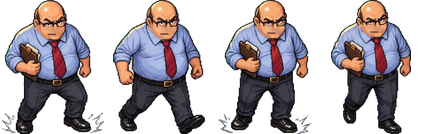
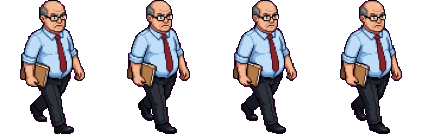
feat: Д.Н. перерисован, клавиши только латиницей в онбординге, укрытия ограничены по времени, шутки про Турло Тимурова (0.20.1)

diff --git a/js/lines.js b/js/lines.js
@@ -5,6 +5,7 @@
   const boss = {
     // Обычный обход — бурчит себе под нос
     patrol: [
+      "Кто сказал «агент ФСБ»?! У нас все агенты — кредитные!", "Hindenburg не пройдёт! И вы в серверную тоже не пройдёте.", 
       "Так, кто трогал ключ от моего туалета? Он у меня на шее. Проверяю.", "Турло Тимуров опять в Threads написал «работаем 24/7». Я тоже читаю в 3 ночи.", "Если Турло Тимуров купит ещё одну компанию, мы начнём выдавать арбузы в кредит.", "У меня отдельный туалет. Это не привилегия, это KPI.", "Кто работал, пока я был в своём туалете? Никто. Я слышал.", 
       'Либо работайте, коллеги, либо... молодцы, ребята!',
       'NPL сам себя не посчитает!',
@@ -209,13 +210,14 @@
   const coworkerIdle = {
     aimashyn: ['*печатает*',"Выкатили релиз. Откатили релиз. Agile.", "Турло Тимуров ответил мне в Threads! Правда, лайком от бота.",  'Кто пушнул в прод в пятницу? Я знаю, что ты читаешь это, Быкентий.', 'Code review: «LGTM». Код не смотрел.', 'Опять Excel завис...', 'Кто взял мою ручку?', 'Скорей бы пятница и «Мюнхен».'],
     hlad: ['♪ ♫ ♪',"Скор-модель предсказала мне отпуск. Ложноположительно.", "Чем больше слоёв в модели, тем меньше смысла. Как в «Наполеоне».",  'Модель переобучена. Я тоже.', '*делает музыку громче каждый раз, когда говорит Д.Н.*', '*качает головой в такт*', 'Опять переобучать...'],
-    shurik: ['Хм, тут ошибка.',"Заёмщик — владелец трёх Камри и одного велосипеда. Одобряем велосипед.", "Верифицировал Турло Тимурова. Доход — «достаточный».",  'Клиент указал доход «много». Верифицировано.', 'Паспорт выдан в 1880 году. Вопросов нет.', '*перепроверяет*', 'Сходится. Странно.'],
-    bleb: ['*обучает модель*',"Нейросеть говорит, что Д.Н. в своём туалете. Точность 97%.", "Промпт: «сделай мне премию». Ответ: «как языковая модель, я не могу».",  'ROC-AUC 0.51. Почти монетка.', 'Опять пропуски в данных Маджикистана.'],
+    shurik: ['Хм, тут ошибка.',"Верифицировал клиента из Белиза. Адрес — пальма.", "Заёмщик — владелец трёх Камри и одного велосипеда. Одобряем велосипед.", "Верифицировал Турло Тимурова. Доход — «достаточный».",  'Клиент указал доход «много». Верифицировано.', 'Паспорт выдан в 1880 году. Вопросов нет.', '*перепроверяет*', 'Сходится. Странно.'],
+    bleb: ['*обучает модель*',"Нейросеть уверена, что Турло Тимуров — рептилоид. Я уверен, что она переобучилась.", "Нейросеть говорит, что Д.Н. в своём туалете. Точность 97%.", "Промпт: «сделай мне премию». Ответ: «как языковая модель, я не могу».",  'ROC-AUC 0.51. Почти монетка.', 'Опять пропуски в данных Маджикистана.'],
     sirgey: ['*кивает в пустоту*',"Автошка упала, я лёг следом — командная работа.", "Я не опоздал, я асинхронный.",  'Коллеги, у меня видео не работает. И я тоже.', 'Автошка упала. Я тоже скоро лягу.', 'Да-да, согласен. А что?', 'Меня слышно?.. Нет? Ну и ладно.'],
-    asel: ['Как же всё надоело...',"Сторис «мой рабочий день»: кофе, кофе, Excel, кофе.", "Турло Тимуров выложил в Threads фото с шахматной доской. Лайкнула для комплаенса.",  'Кто опять поставил кондей на 16?!', 'Комплаенс не спит. Он просто закрыл глаза.', 'Всё по регламенту. Регламент — по настроению.', 'Опять подписали без визы…', 'Мне бы в отпуск. На Капчагай.'],
-    tigran: ['Р-р-р… джан.',"Ключ от туалета Д.Н.? Тигры ходят в лес, джан.", "Турло Тимуров купил бы Байконур. А я бы запустил.",  'Ключ на старт…', 'Гагарин тоже с чего-то начинал.', '*поправляет флажки на столе*', 'На Байконуре уже бы запустили.'],
+    asel: ['Как же всё надоело...',"Комплаенс проверил слух про ФСБ. Вывод: слух не резидент.", "Сторис «мой рабочий день»: кофе, кофе, Excel, кофе.", "Турло Тимуров выложил в Threads фото с шахматной доской. Лайкнула для комплаенса.",  'Кто опять поставил кондей на 16?!', 'Комплаенс не спит. Он просто закрыл глаза.', 'Всё по регламенту. Регламент — по настроению.', 'Опять подписали без визы…', 'Мне бы в отпуск. На Капчагай.'],
+    tigran: ['Р-р-р… джан.',"Hindenburg — это дирижабль. Он тоже красиво взлетел, джан.", "Ключ от туалета Д.Н.? Тигры ходят в лес, джан.", "Турло Тимуров купил бы Байконур. А я бы запустил.",  'Ключ на старт…', 'Гагарин тоже с чего-то начинал.', '*поправляет флажки на столе*', 'На Байконуре уже бы запустили.'],
     stazy: ['В «Пещере"Свет в «Пещере» дали! Узнал из Threads. Шутка, не дали.",  на Абая» опять вырубили свет. Третий день живу при свечах.', 'Ordnung muss sein. Но не в нашем ЖК.', 'Дома свет по графику. График — по настроению КСК.', 'Я на работу хожу погреться и зарядить телефон.', 'Соседи уже в чате ЖК пишут при свечке.', 'Лифт опять стоит. Девятый этаж — моя кардиотренировка.', 'Зато у нас в «Пещере» звёзды видно. Прямо из подъезда.', 'Бабушка из Караганды говорит: при Союзе свет был. Я не проверял.'],
     aljazira: [
+      "Hindenburg нас шортит, SEC пишет письма, а вы YouTube смотрите?!", 
       "Опять Д.Н. закрылся в своём туалете на ключ! Мне что, в синюю кабинку с отчётом идти?!", "Турло Тимуров пишет в Threads «мы открыты к критике». Пусть придёт в Маджикистан, покритикуем.", "Я одна тут работаю. Все остальные — эмбеддинги.", 
       'Маджикистан опять нае**улся... Сука, кто этим обезьянам доступ дал?!',
       'Быкентий, б**ть! Если через час шлюз не поднимется — я тебя лично в Капчагае утоплю!',
@@ -236,6 +238,7 @@
     aljazira: { phone: ['*орёт матом в трубку на подрядчиков*', '*яростно строчит капсом «БЫКЕНТИЙ ТЫ ТРУП»*'], sleep: ['*уронила голову на папки: «Как вы все меня зае**ли...»*'] },
   };
   const whine = [
+      "Говорят, Турло Тимуров — агент ФСБ. А по-моему, он просто в Threads сидит в 3 ночи.", "Hindenburg опять шорт открыл? Я тоже: шорты под столом, жара же.", "Турло Тимурову пришло «письмо Уэллса». Мне пришло только письмо от КСК.", "Офшор в Белизе у Турло Тимурова, а у меня — депозит в «Мюнхене» на обед.", 
       "Говорят, у Д.Н. в туалете подогрев сиденья. Тоже KPI?", "Турло Тимуров опять что-то купил. Надеюсь, кондиционер.", "Банк на Nasdaq, туалет — пластиковый.", "Ключ от туалета Д.Н. — главный актив отдела.", 
     'Жарко, как в сауне...', 'Когда ремонт уже?', 'Опять сверлят...', 'Зарплату когда поднимут?',
     'У меня от кондея шея не поворачивается.', 'Интернет опять как в 2007-м.', 'Опять сбор денег? Я же скидывался!',
@@ -289,6 +292,8 @@
     fail: ['Всё. Это был дефолт. Полный и безоговорочный.', 'Ну вот. Ликвидность вышла из-под контроля.', 'Эх… Джинсы — в залог, кеды — в просрочку.'],
     relief: ['Как заново родился. Как после релиза, который не упал.', 'Вот она — настоящая стабильность.', 'Это лучше, чем премия. Которой всё равно нет.'],
   };
+  // Слишком долго в укрытии
+  const hideOut = ['Хвостик торчит из фикуса… Кажется, меня видно.', 'Ноги затекли. Кусты — не офисное кресло.', 'Фикус устал меня прятать.'];
   const bday = ['Скидываемся на ДР! Кидайте на Kaspi по 5000 ₸!', 'Опять сбор. Кто-то вообще отмечает, что мы скидываемся?'];
 
   const coworkerWarn = [
@@ -408,6 +413,10 @@
   const excuses = ["Я в туалете Д.Н. был! А, у меня нет ключа… Значит, в синем!", "Готовил отчёт для Турло Тимурова! Для Threads!", 'Я в биотуалете был! Там очередь!', 'Я на созвоне по Маджикистану был!', 'Ходил за распечаткой, ксерокс опять жевал!', 'Я тут! Просто низко сидел!'];
   // Соседи перекидываются фразами между собой: [кто, реплика, кто отвечает, ответ]
   const banter = [
+    ["sirgey", "Говорят, Турло Тимуров — агент ФСБ.", "shurik", "Верифицировал. Агент — только кредитный."],
+    ["hlad", "Hindenburg опять отчёт выпустил.", "bleb", "Наша модель предсказала. ROC-AUC 0.51."],
+    ["asel", "SEC прислала Турло Тимурову письмо.", "aimashyn", "Надеюсь, не в наш общий чат."],
+    ["stazy", "Если у нас офшор в Белизе, почему свет в «Пещере» отключают?", "aljazira", "Потому что свет — это не актив, Штази!"],
     ["hlad", "Шурик, а правда у Д.Н. туалет с ключом?", "shurik", "Правда. Ключ верифицирован, сам туалет — нет."],
     ["bleb", "Турло Тимуров в Threads ответил на коммент в 3 ночи.", "aimashyn", "Он вообще спит? Или это тоже нейросеть?"],
     ["asel", "Кто стучит в туалет Д.Н.?", "aljazira", "Я! Он там с моим отчётом по Маджикистану заперся!"],
@@ -487,5 +496,5 @@
   // Д.Н. проходит мимо стола Тиграна — духа он не видит, только чувствует
   const tigranDraft = ['Бр-р… Откуда сквозняк у пустого стола?', 'Кто тут рычит?.. Показалось.', 'Почему тут пахнет космосом?'];
 
-  window.NP_LINES = { banter, tigranDraft, boss, chat, perks, coworkerIdle, coworkerWarn, thoughts, todoPool, dayTasks, excuses, majik, sb, nudge, arrfr, slack, whine, complaints, lunch, munich, toilet, pee, bday, aljazira, adhoc, excelTasks, coffeeQueue };
+  window.NP_LINES = { banter, tigranDraft, boss, chat, perks, coworkerIdle, coworkerWarn, thoughts, todoPool, dayTasks, excuses, majik, sb, nudge, arrfr, slack, whine, complaints, lunch, munich, toilet, pee, hideOut, bday, aljazira, adhoc, excelTasks, coffeeQueue };
 })();

diff --git a/index.html b/index.html
@@ -4,7 +4,7 @@
     <meta charset="UTF-8" />
     <meta name="viewport" content="width=device-width, initial-scale=1.0, maximum-scale=1.0, user-scalable=no, viewport-fit=cover" />
     <title>Не пались — банковский офисный симулятор</title>
-    <link rel="stylesheet" href="style.css?v=0.20.0" />
+    <link rel="stylesheet" href="style.css?v=0.20.1" />
   </head>
   <body>
     <main class="cabinet">
@@ -42,7 +42,7 @@
               <p class="pitch">Ты — айтишник в отделе банка.<br />Твоя задача — дожить до 19:30: пей кофе, кури с видом на горы, болтай с коллегами и заглядывай на кухню.<br />Но когда начальник смотрит в твою сторону — ты в Excel. Всегда.</p>
               <ul class="how">
                 <li><b>Цель</b> — сделать план, накайфоваться и не получить 3 выговора до 19:30.</li>
-                <li><b>Конус обзора</b> Д.Н.: бездельничаешь в нём — растёт «?». На 100% — выговор.</li>
+                <li><b>Конус обзора</b> начальника — Директора Начальниковича (Д.Н.): бездельничаешь в нём — растёт «?». На 100% — выговор.</li>
                 <li><b>Проверки стола</b>: не застал на месте слишком часто — выговор. Excel на глазах у Д.Н. — план вдвое быстрее.</li>
                 <li><b>Неделя</b> учит постепенно: коллеги, обед, второй ряд и Маджикистан, пятничное пиво.</li>
               </ul>
@@ -59,7 +59,7 @@
               </div>
               <div class="audio-row"><button class="audio-btn music-toggle">🎵 Музыка: вкл (N)</button><button class="audio-btn sound-toggle">🔊 Звуки: вкл (M)</button><button class="audio-btn text-toggle" title="Крупнее текст в меню и в игре">🔠 Текст: обычный</button></div>
               <label class="speed-row">⏱ Скорость времени <input class="speed-range" type="range" min="0.5" max="3" step="0.25" value="1" /> <b class="speed-val">×1</b></label>
-              <div class="controls-mini">WASD / ЦФЫВ / стрелки — ходить · E / У / Пробел — действие · H / Р — спрятаться · Tab / Q / Й — телефон · P / З / Esc — пауза · B / И — альт-таб · 1/2/3 — ответ на летучке · U / Г — апгрейды · N / Т — музыка · I / Ш — как играть</div>
+              <div class="controls-mini">WASD / стрелки — ходить · E / Пробел — действие · H — спрятаться · Tab / Q — телефон · P / Esc — пауза · B — альт-таб · 1/2/3 — ответ на летучке · U — апгрейды · N — музыка · I — как играть</div>
             </div>
           </div>
           <div id="pause-overlay" class="screen-overlay hidden">
@@ -145,7 +145,7 @@
                     <h3>Работа — лучшая маскировка</h3>
                     <p><b>Свой стол:</b> подойди <b>сзади</b> (со стороны окна) и нажми <b>E</b>. Excel двигает план, а на глазах у Д.Н. — <b>вдвое быстрее</b>. План уже сделан — Excel остаётся прикрытием.</p>
                     <p><b>Укрытия (H):</b> четыре растения, шкафы архива, за ксероксом, синий биотуалет. В укрытии тебя не видят ни Д.Н., ни камеры. Но стол при этом пустой!</p>
-                    <p><b>Альт-таб (B / И, со среды):</b> застукали на YouTube, телефоне или перекуре — мгновенно делаешь вид, что работаешь, и «?» гаснет. Перезарядка 10 с.</p>
+                    <p><b>Альт-таб (B, со среды):</b> застукали на YouTube, телефоне или перекуре — мгновенно делаешь вид, что работаешь, и «?» гаснет. Перезарядка 10 с.</p>
                   </div>
                 </section>
                 <section class="onb-slide">
@@ -257,9 +257,9 @@
         <p>Для комфортной смены в БЦ «Угар» переверни устройство горизонтально.</p>
       </div>
     </div>
-    <script src="js/world.js?v=0.20.0"></script>
-    <script src="js/lines.js?v=0.20.0"></script>
-    <script src="js/art.js?v=0.20.0"></script>
-    <script src="game.js?v=0.20.0"></script>
+    <script src="js/world.js?v=0.20.1"></script>
+    <script src="js/lines.js?v=0.20.1"></script>
+    <script src="js/art.js?v=0.20.1"></script>
+    <script src="game.js?v=0.20.1"></script>
   </body>
 </html>

diff --git a/game.js b/game.js
@@ -18,7 +18,7 @@
   canvas.height = H * S;
 
   // Версия в URL сбрасывает кэш браузера, когда спрайт заменён под тем же именем файла
-  const ASSET_V = '0.20.0';
+  const ASSET_V = '0.20.1';
   function loadImage(src) { const i = new Image(); i.src = `${src}?v=${ASSET_V}`; return i; }
   const img = {
     vik: loadImage('assets/bykentiy-walk-v4.png'),
@@ -64,7 +64,9 @@
     toiletPerPerson: 2.2,      // очередь в туалет: секунд на человека
     toiletSeconds: 6,
     toiletCooldown: 45,
-    overtimeSeconds: 30,       // сверхурочные после плана: снять сегодняшний выговор (раз в смену)
+    overtimeSeconds: 30,
+    hideMax: 25,               // сколько секунд подряд можно сидеть в укрытии
+    hideCooldown: 20,          // потом укрытия недоступны       // сверхурочные после плана: снять сегодняшний выговор (раз в смену)
     peeTimes: [2, 3],          // сколько раз за смену Быкентию приспичит (со среды, когда открыт биотуалет)
     peeRise: 1.8,              // рост «приспичило» в секунду (0–100): ~55 с до конфуза
     peeFail: 15,               // −кайфа, если не дотерпел
@@ -1206,6 +1208,7 @@
   }
 
   // ---------- ВЗАИМОДЕЙСТВИЯ ----------
+  const COVER = new Set(['plant_hide', 'cabinet_hide', 'printer_hide']);
   const HIDDEN = new Set(['plant_hide', 'cabinet_hide', 'printer_hide', 'toilet', 'lunch', 'evac']);
   const AWAY = new Set(['toilet', 'lunch', 'evac']); // Быкентия нет в опенспейсе — не рисуем
   const SLACK_BASE = new Set(['smoke', 'youtube', 'fridge', 'chat', 'phone', 'meme']);
@@ -1330,6 +1333,9 @@
     return 'Выход на лестницу. Обед — 13:00–14:30, до 19:30 ни шагу.';
   }
   function startAction(action, seconds) {
+    // Бесконечно сидеть в кустах нельзя: после «хвостик торчит» укрытия недоступны на время
+    if (COVER.has(action) && day.hideCd > 0) { say('player', `Фикус ещё помнит мой хвостик… (${Math.ceil(day.hideCd)} с)`, 2); player.hideSpot = null; return; }
+    if (COVER.has(action)) player.hideT = 0;
     if (SLACK_BASE.has(action) && action !== 'phone') hint('slack', 'Это палево: если Д.Н. (или камера СБ) увидит — растёт подозрение. Следи за его конусом и радаром справа вверху.');
     if (action === 'phone') hint('phone', coarsePointer ? 'Телефон — тоже палево, но можно ходить. 📱 — убрать.' : 'Телефон — тоже палево, но можно ходить. Tab / Q — убрать.');
     player.action = action;
@@ -1707,7 +1713,7 @@
   const achCount = () => ACHIEVEMENTS.filter(a => achieved[a.id]).length;
 
   // ---------- БОСС-КЛАВИША («АЛЬТ-ТАБ») ----------
-  // B / И: мгновенно сделать вид, что работаешь. Спасает, если Д.Н. уже что-то заподозрил.
+  // B: мгновенно сделать вид, что работаешь. Спасает, если Д.Н. уже что-то заподозрил.
   const FAKE_TEXT = {
     youtube: ['EXCEL ПОВЕРХ YOUTUBE', 'Это... обучающее видео по Excel!'],
     phone: ['ПИШЕТ В РАБОЧИЙ ЧАТ', 'Отвечаю по Маджикистану!'],
@@ -2243,6 +2249,17 @@
 
   // ---------- ИГРОК ----------
   function updatePlayer(dt) {
+    day.hideCd = Math.max(0, (day.hideCd || 0) - dt);
+    if (COVER.has(player.action)) {
+      player.hideT = (player.hideT || 0) + dt;
+      if (player.hideT > CFG.hideMax) {
+        endAction('cancel');
+        day.hideCd = CFG.hideCooldown;
+        say('player', pick(LINES.hideOut), 2.6);
+        toast(`🌿 Хвостик торчит из укрытия! Прятаться снова можно через ${CFG.hideCooldown} с`, 2.6);
+        addLog('Быкентий слишком долго сидел в укрытии — его стало видно.', 'bad');
+      }
+    }
     let dx = 0;
     let dy = 0;
     if (keys.has('arrowleft') || keys.has('a')) dx -= 1;

diff --git a/scripts/qa.js b/scripts/qa.js
@@ -623,6 +623,16 @@ const { loadPlaywright } = require('./pw');
   });
   check('сохранение восстанавливает время, счётчики, флаги дня и список дел', Math.abs(sv.clock - 850.27) < 0.1 && sv.u === 33 && sv.f === 44 && sv.rep === 1 && sv.w === 2 && sv.water === 1 && sv.sameTodo && sv.lunchCalled, JSON.stringify(sv));
 
+  // Укрытие не бесконечное: через 25 с «хвостик торчит», потом 20 с нельзя прятаться
+  const hd = await page.evaluate(() => {
+    NP_DEBUG.setDay(0); NP_DEBUG.clearSavedProgress(); NP_DEBUG.restart(); NP_DEBUG.clearEvents(); NP_DEBUG.setBoss(706, 446, 'office');
+    const p = NP_DEBUG.state; NP_DEBUG.teleport(776, 276); NP_DEBUG.quickHide();
+    const hid = NP_DEBUG.state.player.action; NP_DEBUG.skip(26);
+    const out = NP_DEBUG.state.player.action; NP_DEBUG.quickHide();
+    return { hid, out, again: NP_DEBUG.state.player.action };
+  });
+  check('укрытие: через 25 с выгоняет, повторно сразу нельзя', hd.hid === 'plant_hide' && hd.out === 'none' && hd.again === 'none', JSON.stringify(hd));
+
   // Альджазира ходит по навигационному графу, не сквозь столы
   const aw = await page.evaluate(() => {
     NP_DEBUG.setDay(3); NP_DEBUG.clearSavedProgress(); NP_DEBUG.restart(); NP_DEBUG.clearEvents();

diff --git a/docs/ART_DIRECTION.md b/docs/ART_DIRECTION.md
@@ -23,7 +23,7 @@
 | `assets/bykentiy-walk-v4.png` | 256×120 | С 0.18.0: 4 кадра Быкентия из Gemini (браузер, подписка) по фото и листу v3: графитовая рубашка, зализанные волосы с пучком, щетина. Исходник `assets/bykentiy-src.png`. Используется в игре |
 | `assets/bykentiy-walk-v3.png` | 256×120 | Предыдущая версия: волосы зализаны назад, хвостик, высокий лоб, щетина, голубые глаза |
 | `assets/bykentiy-walk-v2.png` | 256×120 | Предыдущая версия (исходник для v3) |
-| `assets/boss-walk-v2.png` | 424×134 | 4 кадра Директора Начальниковича **без усов** |
+| `assets/boss-walk-v2.png` | 424×134 | 4 кадра Директора Начальниковича: с 0.20.1 перерисован через Antigravity `agy` (Gemini 3.8 Flash, подписка) — лысина, седина по бокам, очки, без усов, голубая рубашка, красный галстук, папка. Исходник `assets/boss-src.png` |
 | `assets/coworkers-v3.png` | 320×112 | 4 сидящих коллеги по фото сотрудников (0.18.0, Gemini в браузере, подписка): Аймашын (чёрная футболка с красным кругом, чёрные волосы назад), Хлад (серое худи, красные наушники), Шурик (чёрный бомбер, клетчатые лямки рюкзака), Блеб (тёмно-синий пиджак, белая рубашка). Исходники `assets/{aimashin,hlad,shurik,bleb}-src.png`. Используется в игре |
 | `assets/extras-v1.png` | 400×112 | Второй ряд: Асель (с 0.18.0 по фото: серый костюм в полоску, прозрачные очки, исходник `assets/assel-src.png`), Альджазира (0.19.2, agy: худая бледная девушка с тёмными волосами, тёмный пиджак, исходник `assets/aljazira-src.png`), Сиргей (рыжий), Тигран (без одежды, весь в гриме тигра: рыжий, полосы, белые грудь и морда, ушки-ободок, в кресле с игрушечной ракетой; рисуется полупрозрачным «духом» с голубым свечением). С 0.16.2 ячейка Тиграна сгенерирована через Antigravity CLI (`agy`, подписка Google AI Pro, без API-ключей), исходник — `assets/tigran-src.png` (пурпурный хромакей), вписан в 80×112 скриптом `scripts/replace_sprite.py` (удаление хромакея + nearest-neighbor). 5-я ячейка — Штази (0.18.0, Gemini по фото: серая футболка в волну, исходник `assets/stazy-src.png`) |
 | `assets/coworkers-v2.png` | 320×112 | Исходник для v3 и второго ряда |

diff --git a/CHANGELOG.md b/CHANGELOG.md
@@ -1,5 +1,13 @@
 # История изменений
 
+## [0.20.1] — 2026-09-25
+
+- **Д.Н. перерисован** (`agy`, подписка): чёткое лицо, очки, без усов; исходник `assets/boss-src.png`.
+- В меню и онбординге клавиши указаны только латиницей (русская раскладка по-прежнему работает по позиции клавиш). В меню Д.Н. расшифрован: Директор Начальникович.
+- **Укрытия не бесконечные:** 25 с подряд, потом «хвостик торчит» и 20 с нельзя прятаться (по фидбеку Влада: нельзя шкериться в кустах вечно). Пустой стол на проверке по-прежнему даёт «не застал на месте», на лимите — выговор.
+- Новые шутки про Турло Тимурова: Hindenburg, письмо от SEC, офшор в Белизе, слухи «агент ФСБ».
+- QA: 79 проверок.
+
 ## [0.20.0] — 2026-09-25
 
 - **Задачи дня:** каждый день — кофе, перекур и биотуалет; число перекуров по дням 1/2/3/1/4. Остальные задачи по дням с приколами: отчёт «Почему в понедельник всё упало», «срочный отчёт» на ксероксе, отчёт по NPL для Турло Тимурова, пересидеть проверку в фикусе, чужой йогурт, похвалы Д.Н. Задача может считать любой счётчик (`stat`).

diff --git a/docs/GAMEPLAY.md b/docs/GAMEPLAY.md
@@ -78,6 +78,10 @@
 
 Бонусы коллег (со вторника): Аймашын — прикрытие (следующий выговор не дадут), Хлад — инсайд (45 с виден таймер до проверки), Шурик — +8 к плану, Блеб — проверка на 15 с позже, Сиргей — 25 с телефон «на созвоне» не палево, Тигран — «Поехали!»: подозрение Д.Н. сбрасывается в 0.
 
+## Укрытия не бесконечные
+
+Если Д.Н. приходит к пустому столу, он ждёт; не успел в Excel — «не застал на месте» +1, на лимите — выговор. Сидеть в растении, за шкафами или ксероксом можно не дольше 25 с подряд: потом «хвостик торчит», Быкентий вылезает, и 20 с прятаться нельзя. Невыполненный к 19:30 план — тоже выговор.
+
 ## Приспичило (с понедельника)
 
 2–3 раза за смену Быкентию надо в туалет: над головой появляется шкала «🚽 %» (≈55 с до 100%, с кофе быстрее, в очереди медленнее). Пока шкала выше 50%, Excel идёт ×0.7. Дошёл до синей кабинки — +4 кайфа, кулдаун «не хочется» не мешает. Не дотерпел — «НЕ ДОТЕРПЕЛ», −15 кайфа. Автопилот сам бежит в туалет.

diff --git a/docs/LOCAL_SETUP.md b/docs/LOCAL_SETUP.md
@@ -32,7 +32,7 @@ py -m pip install pillow numpy scipy
 ```powershell
 node --check game.js
 Get-ChildItem js\*.js | ForEach-Object { node --check $_.FullName }
-node scripts\qa.js          # автотест: 78 проверок, скриншоты в .qa\
+node scripts\qa.js          # автотест: 79 проверок, скриншоты в .qa\
 node scripts\screens.js     # меню, онбординг, игра, реплики, телефон на 6 экранах → .qa\screens\
 ```
 

diff --git a/VERSION.md b/VERSION.md
@@ -1,6 +1,6 @@
 # Версия проекта
 
-Текущая версия: `0.20.0`
+Текущая версия: `0.20.1`
 
 Дата: `2026-09-25`
 
